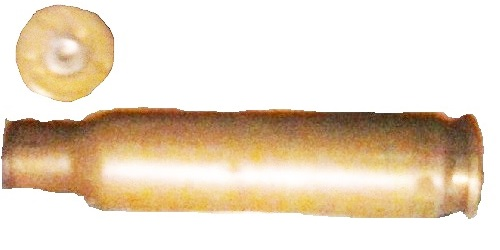
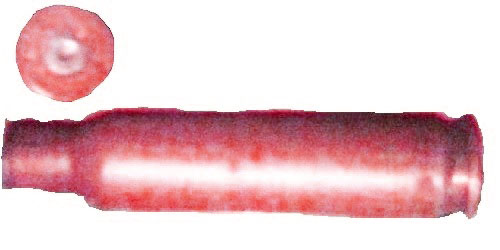
Shotgun shell: red placeholder and fix double

diff --git a/source/src/weapon.cpp b/source/src/weapon.cpp
@@ -1120,9 +1120,11 @@ void shotgun::attackfx(const vec &from, const vec &to, int millis)
                 addbullethole(owner, from, sg[i], 0, false);
             }
         adddynlight(owner, from, 4, 100, 50, 96, 80, 64);
-        attackshell(to);
         if (owner != player1 && !isowned(owner))
+        {
+            attackshell(to);
             attacksound();
+        }
     }
     else
     {
